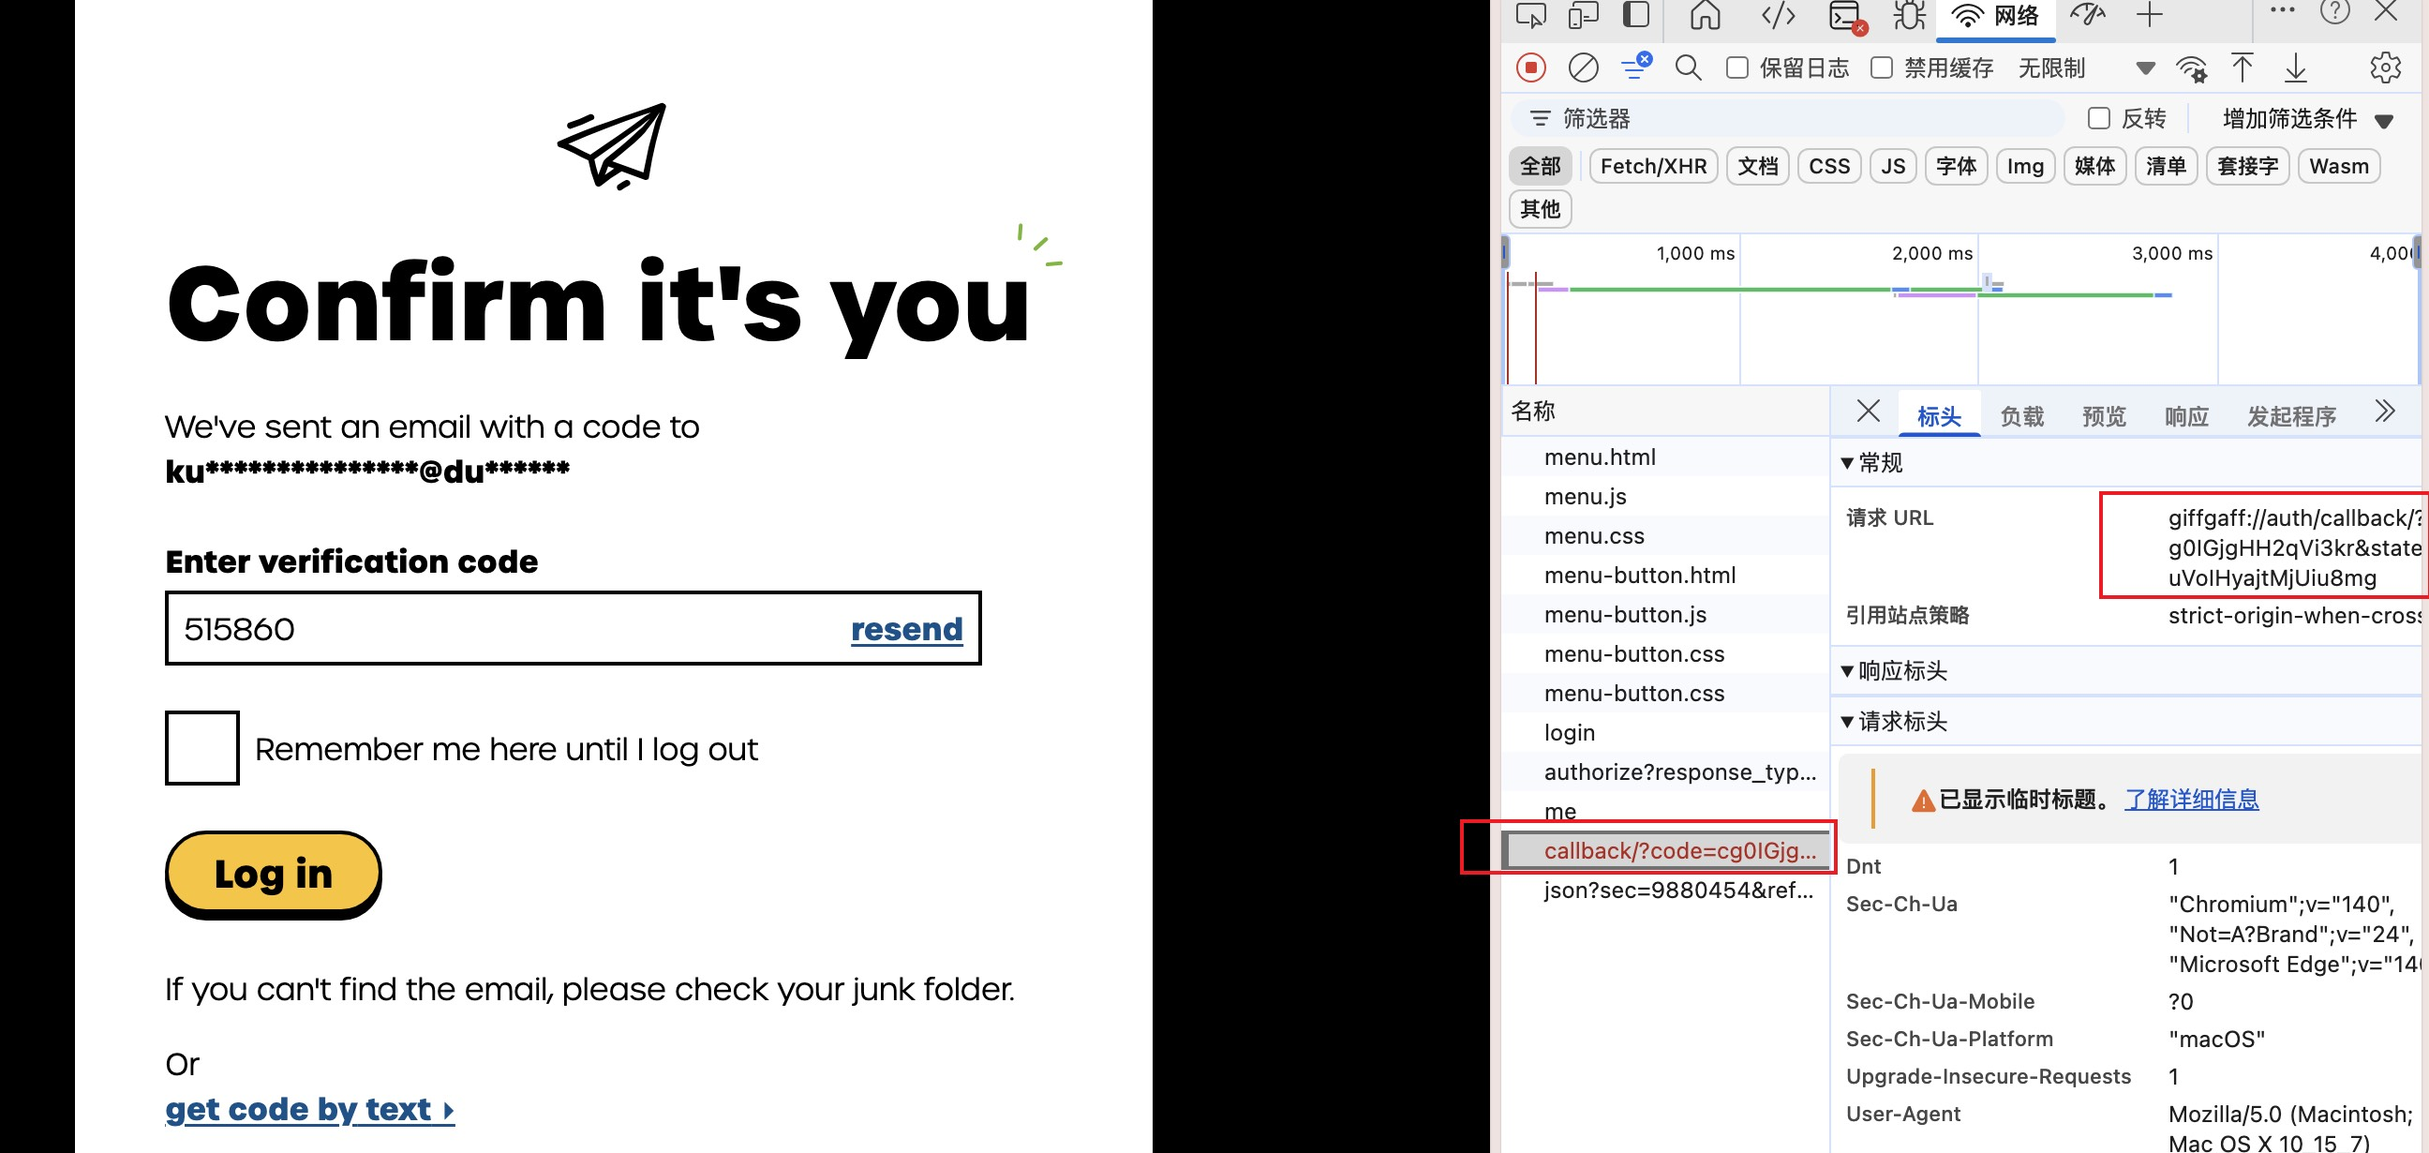
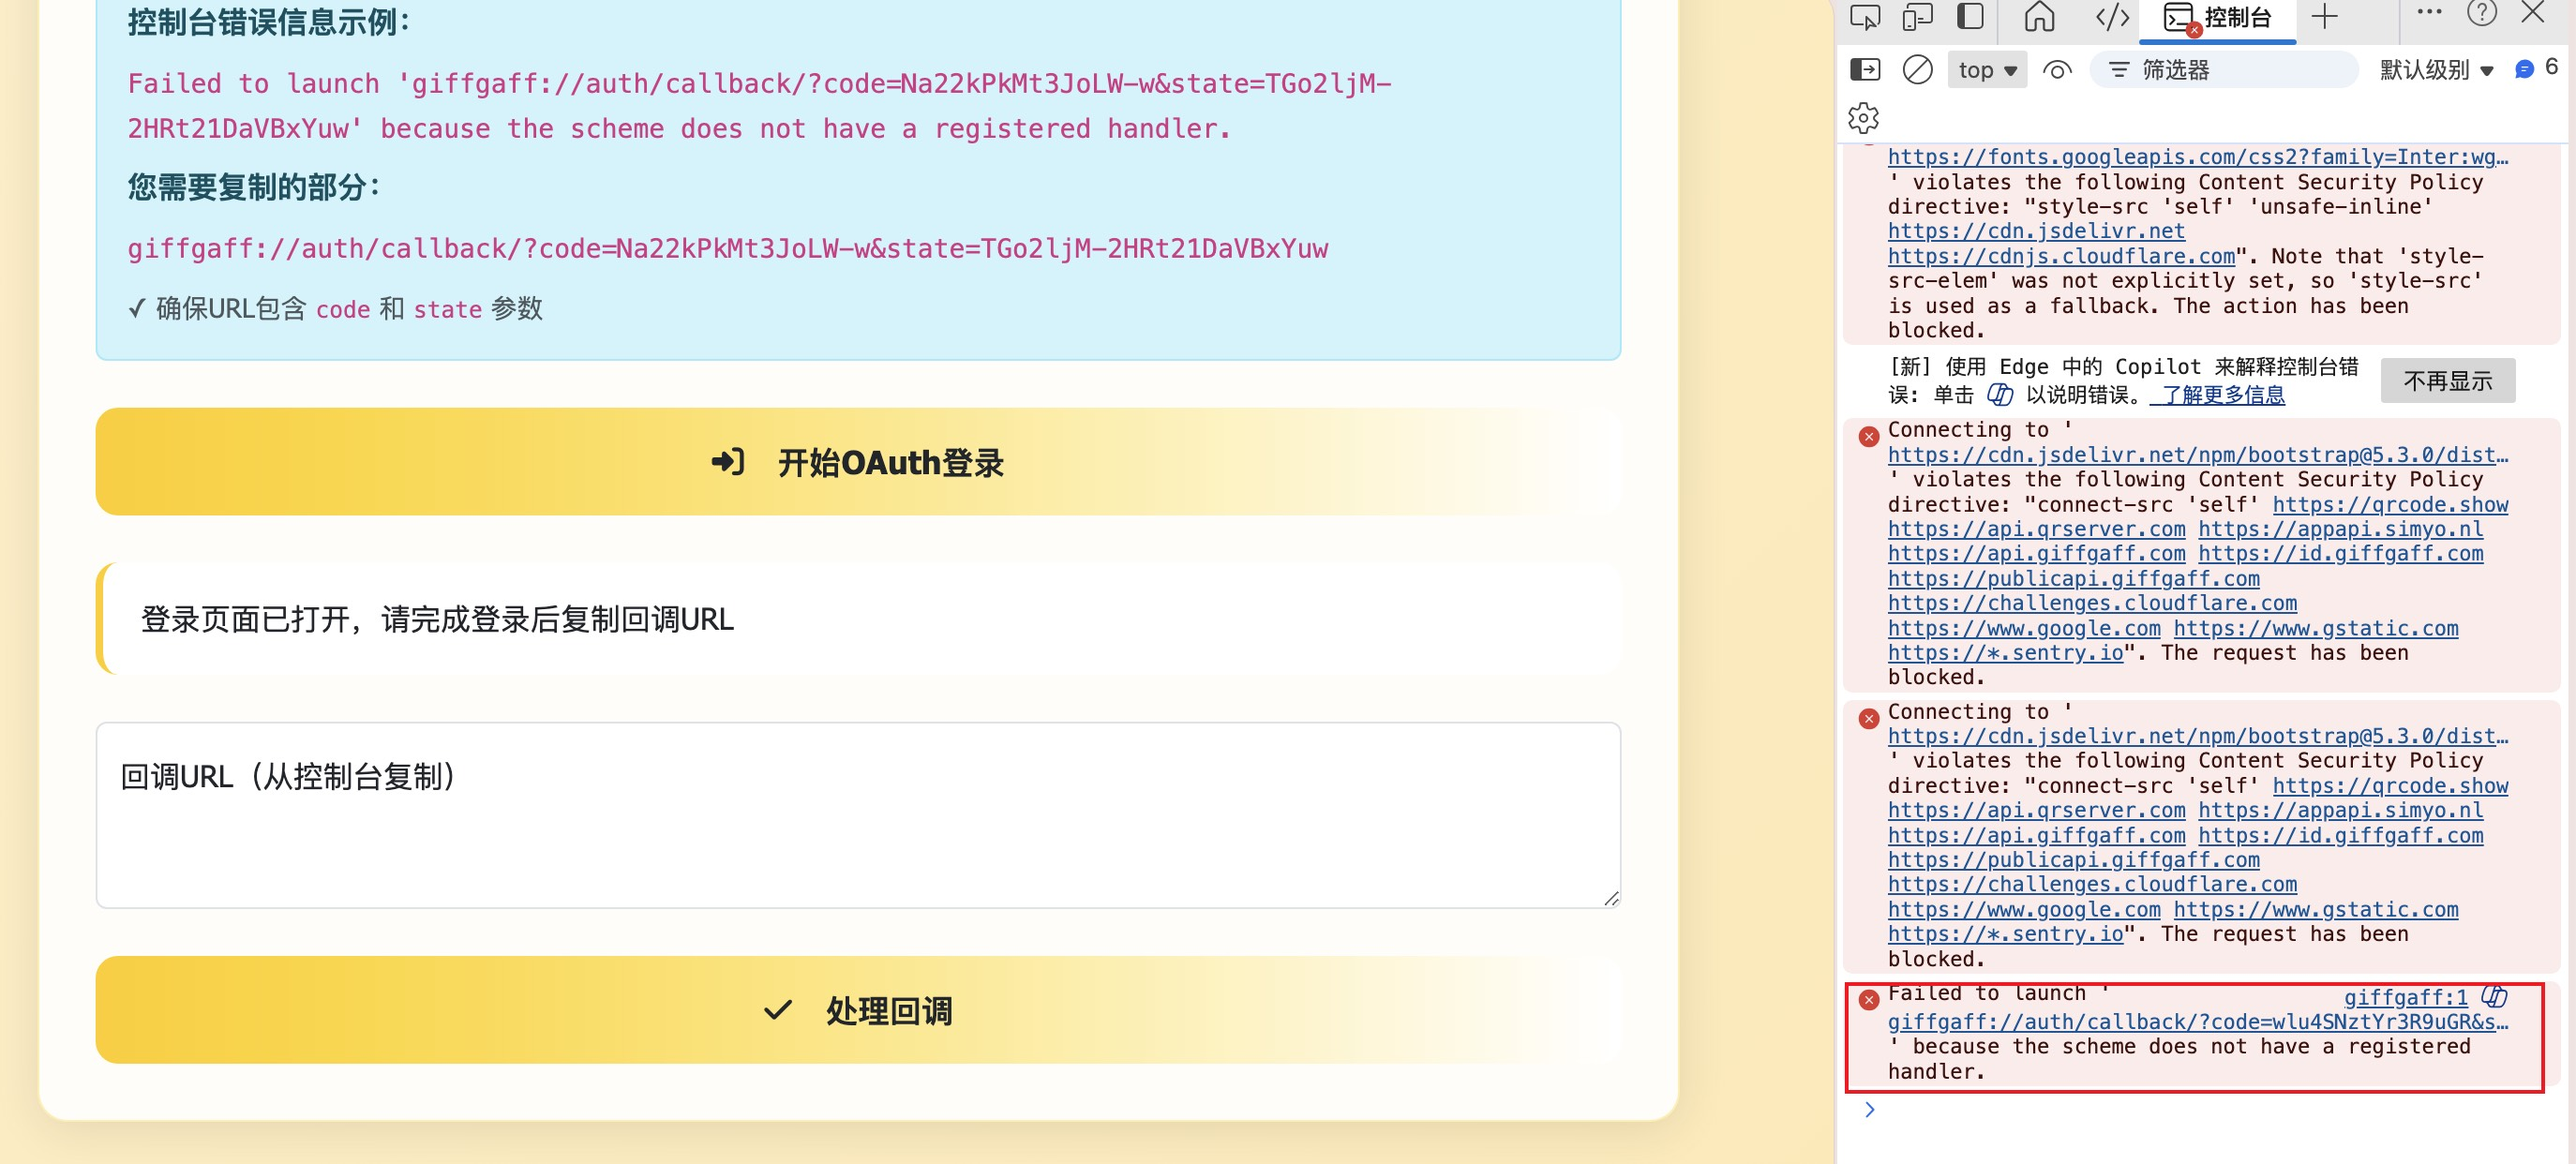
docs: 更新OAuth回调URL获取指引，提升用户操作体验
* 优化了获取giffgaff OAuth回调URL的步骤，使其更清晰、更易于用户操作。
* 调整了用户手册（中英文）中的相关说明，指导用户通过控制台错误信息获取回调URL，而非网络面板。
* 同步更新了eSIM更换页面（giffgaff_modular.html）上的操作提示文本，与新指引保持一致。
* 更新了配套的截图文件（101.jpg 和 103.jpg）以匹配新的操作流程。

diff --git a/src/giffgaff/giffgaff_modular.html b/src/giffgaff/giffgaff_modular.html
@@ -371,14 +371,14 @@
                             <ol class="mb-2 lang-zh">
                                 <li><strong>打开开发者工具</strong>：按 F12 或右键选择"检查"</li>
                                 <li><strong>切换到"控制台"（Console）标签页</strong></li>
-                                <li><strong>点击下方"开始OAuth登录"按钮</strong>，在新窗口完成登录</li>
+                                <li><strong>点击下方"开始OAuth登录"按钮</strong>，新窗口打开后切换回eSIM更换页面</li>
                                 <li><strong>在控制台中查找</strong>错误信息：<code>Failed to launch 'giffgaff://auth/callback/...'</code></li>
                                 <li><strong>复制完整的回调URL</strong>（从 <code>giffgaff://</code> 开始到末尾）并粘贴到下方输入框</li>
                             </ol>
                             <ol class="mb-2 lang-en">
                                 <li><strong>Open DevTools</strong>: press F12 or right-click → "Inspect"</li>
                                 <li><strong>Switch to the "Console" tab</strong></li>
-                                <li><strong>Click "Start OAuth Login" below</strong> and complete login in the new window</li>
+                                <li><strong>Click "Start OAuth Login" below</strong> After the new window opens, switch back to the eSIM replacement page.</li>
                                 <li><strong>Look for the error message</strong> in Console: <code>Failed to launch 'giffgaff://auth/callback/...'</code></li>
                                 <li><strong>Copy the full callback URL</strong> (from <code>giffgaff://</code> to the end) and paste it into the input field below</li>
                             </ol>

diff --git a/docs/User_Guide_EN.md b/docs/User_Guide_EN.md
@@ -22,10 +22,10 @@ OAuth method requires obtaining the callback URL. For instructions on how to get
 
 ![Get Callback URL Instructions](image/102.jpg)
 
-1. Click the "Login with OAuth" button
-2. In the newly opened page, enter your Giffgaff username and password and click login (please open the browser developer tools network panel in advance)
-3. Enter the email verification code
-4. Find the callback URL in the network panel of the developer tools (format: `giffgaff://auth/callback/?code=ABC123&state=XYZ789`)
+1. First, open the login page for the giffgaff website on a new tab: `https://www.giffgaff.com` and log in.
+2. After logging in, return to the eSIM replacement page and open the developer tools: press F12 or right-click and select “Inspect” to switch to the “Console” tab.
+3. Click the “Start OAuth Login” button at the bottom; once the new window opens, switch back to the eSIM replacement page.
+4. Look for the error message in the console: “Failed to launch ‘giffgaff://auth/callback/…’”. Copy the callback URL from that line.
 
 ![Get Callback URL](image/103.jpg)
 

diff --git a/docs/User_Guide.md b/docs/User_Guide.md
@@ -25,10 +25,10 @@ OAuth方式需要获取回调URL，获取方式参考页面说明：
 
 ![获取回调URL说明](image/102.jpg)
 
-1. 点击"使用 OAuth 登录"按钮
-2. 在新打开的网页中输入giffgaff用户名和密码并点击登录（请提前打开浏览器开发者工具的网络面板）
-3. 输入邮件验证码
-4. 在开发者工具的网络面板中找到回调URL（格式为：`giffgaff://auth/callback/?code=ABC123&state=XYZ789`）
+1. 首先请在新标签页打开giffgaff官网的登录页面：'https://www.giffgaff.com' 进行登录
+2. 登录完成后返回eSIM更换页面，打开开发者工具：按 F12 或右键选择"检查"切换到"控制台"（Console）标签页 
+3. 点击下方"开始OAuth登录"按钮，新窗口打开后切换回eSIM更换页面
+4. 在控制台中查找错误信息：Failed to launch 'giffgaff://auth/callback/...'，复制该行中的回调URL
 
 ![获取回调URL](image/103.jpg)
 
